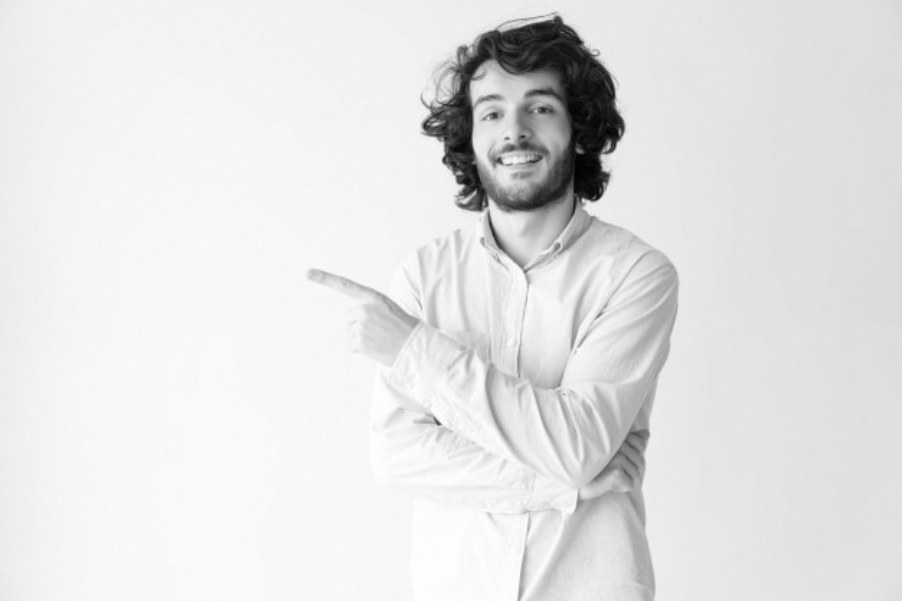
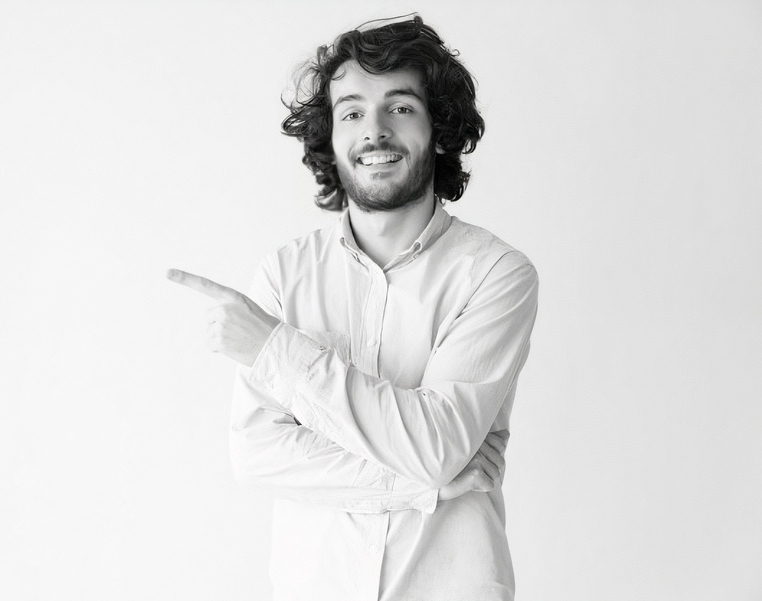
update img

Changed region(s): [[0.2113, 0.0, 0.7546, 1.0]]

diff --git a/Assets/Styles/app.css b/Assets/Styles/app.css
@@ -1,7 +1,10 @@
 @import url(fonts.css);
 @import url(normalize.css);
 @import url(grid.css);
-
+::selection {
+  background-color: #333;
+  color: var(--primary-color);
+}
 :root {
   --section-bg-color: #fff; /* WHITE */
   --app-bg-color: #fff; /* WHITE */
